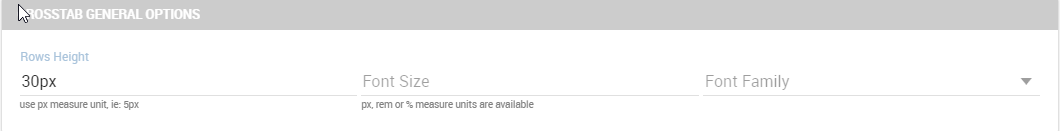
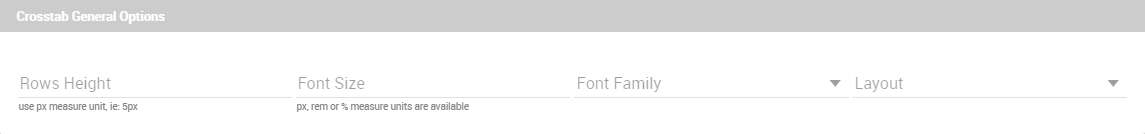
[KNOWAGE-3957] Crosstable's layout

diff --git a/functionalities-guide/cockpit/index.rst b/functionalities-guide/cockpit/index.rst
@@ -345,7 +345,7 @@ Otherwise, thanks to the “On columns” feature, you can easily compute totals
 
 Switching to the “Style” tab you can find the general style settings available for the crosstab.
 
-- **Crosstab Font General Options**  where the rows' height, the general font and font size can be set;
+- **Crosstab General Options**  where the rows' height, the general font and font size can be set; in particular, the layout combo determines how the columns resize themselves in respect of the contained value;
 
 .. figure:: media/image174.png
 
